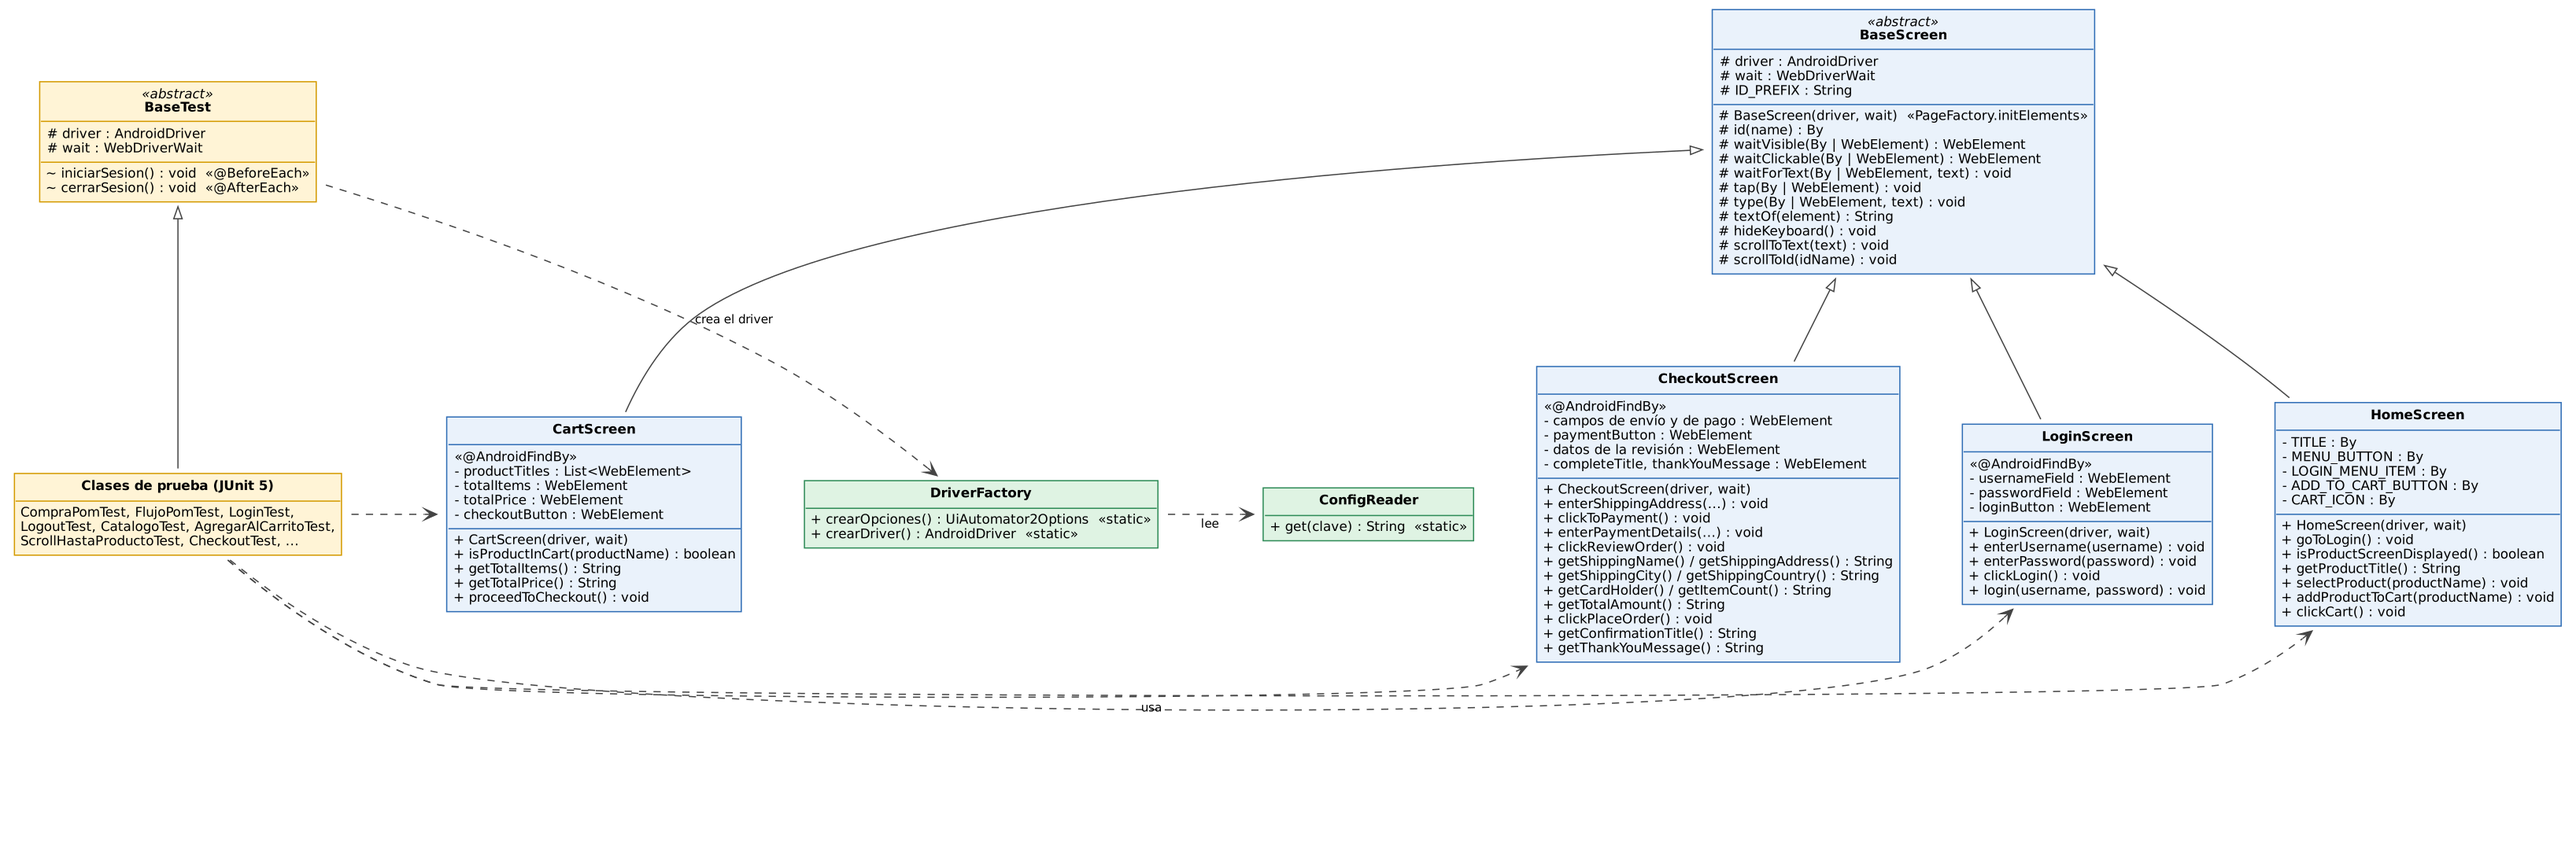
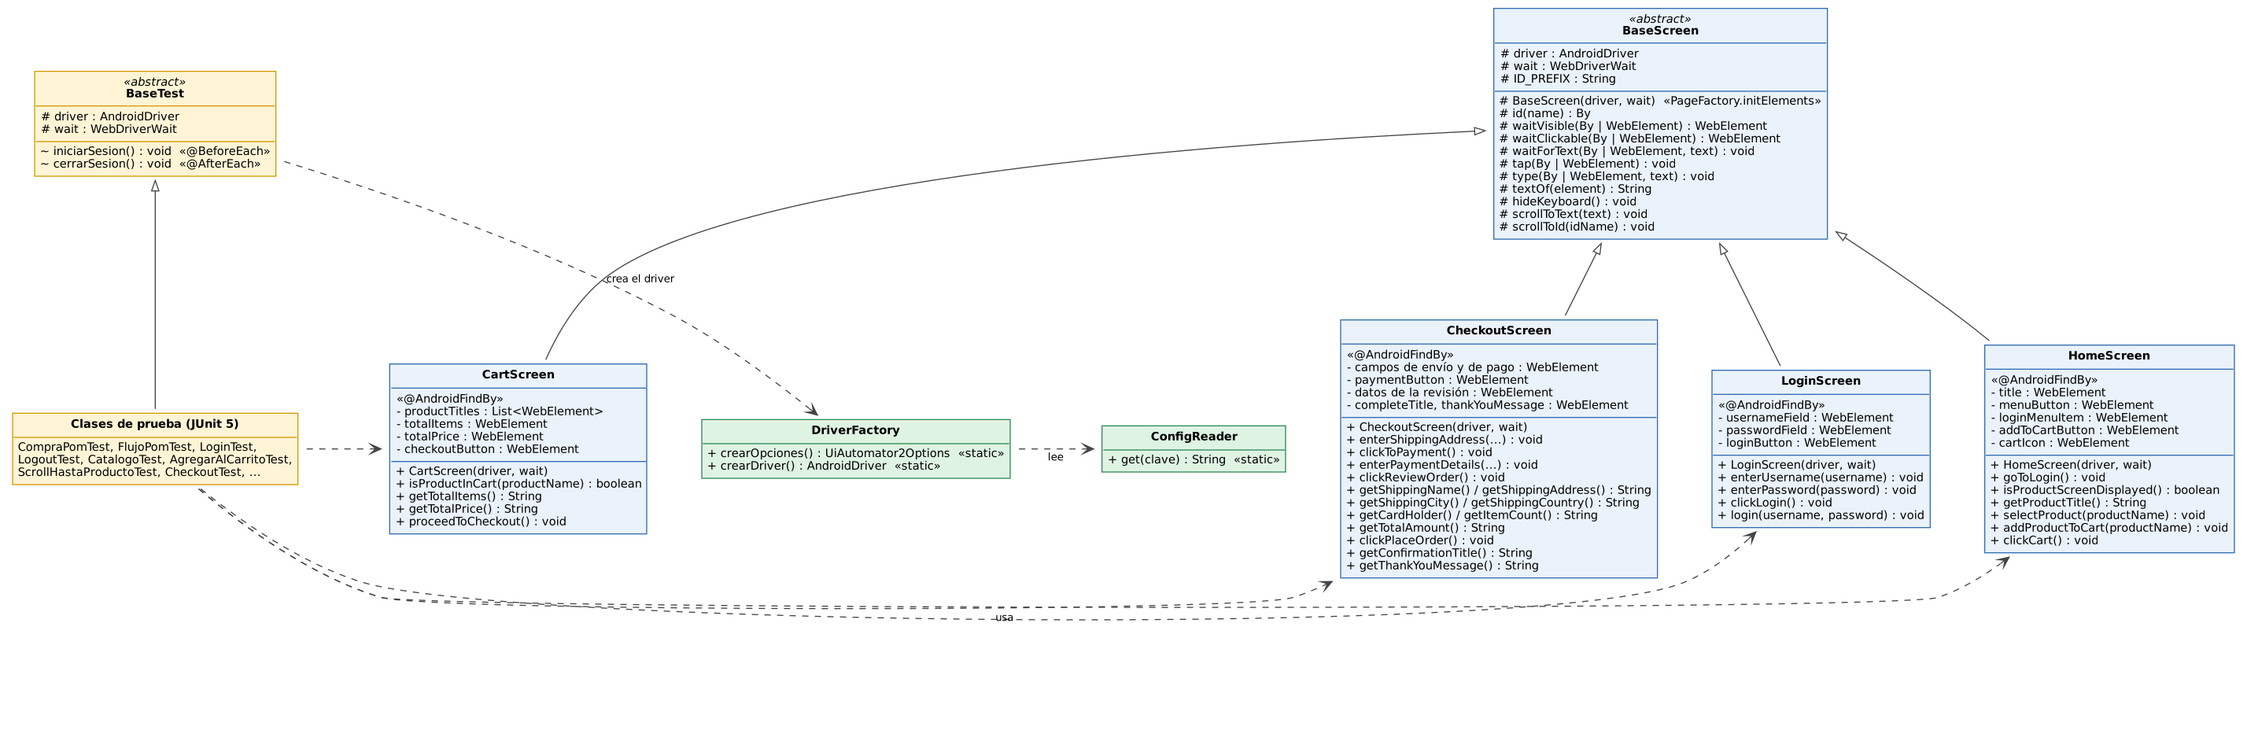
Avance 4.3b: HomeScreen con Page Factory, timeout del decorator y fix de mayúsculas en FlujoPomTest

diff --git a/src/test/java/screens/HomeScreen.java b/src/test/java/screens/HomeScreen.java
@@ -2,22 +2,30 @@ package screens;
 
 import io.appium.java_client.AppiumBy;
 import io.appium.java_client.android.AndroidDriver;
-import org.openqa.selenium.By;
+import io.appium.java_client.pagefactory.AndroidFindBy;
+import org.openqa.selenium.NoSuchElementException;
 import org.openqa.selenium.TimeoutException;
 import org.openqa.selenium.WebElement;
 import org.openqa.selenium.support.ui.WebDriverWait;
-
-import java.util.List;
 
 /** Catálogo de productos (pantalla principal) y detalle del producto. */
 public class HomeScreen extends BaseScreen {
 
     // productTV es el título del catálogo ("Products") y también el nombre en el detalle del producto
-    private static final By TITLE = AppiumBy.id(ID_PREFIX + "productTV");
-    private static final By MENU_BUTTON = AppiumBy.id(ID_PREFIX + "menuIV");
-    private static final By LOGIN_MENU_ITEM = AppiumBy.accessibilityId("Login Menu Item");
-    private static final By ADD_TO_CART_BUTTON = AppiumBy.accessibilityId("Tap to add product to cart");
-    private static final By CART_ICON = AppiumBy.accessibilityId("View cart");
+    @AndroidFindBy(id = ID_PREFIX + "productTV")
+    private WebElement title;
+
+    @AndroidFindBy(id = ID_PREFIX + "menuIV")
+    private WebElement menuButton;
+
+    @AndroidFindBy(accessibility = "Login Menu Item")
+    private WebElement loginMenuItem;
+
+    @AndroidFindBy(accessibility = "Tap to add product to cart")
+    private WebElement addToCartButton;
+
+    @AndroidFindBy(accessibility = "View cart")
+    private WebElement cartIcon;
 
     public HomeScreen(AndroidDriver driver, WebDriverWait wait) {
         super(driver, wait);
@@ -25,14 +33,14 @@ public class HomeScreen extends BaseScreen {
 
     /** Menú lateral -> Log In. */
     public void goToLogin() {
-        tap(MENU_BUTTON);
-        tap(LOGIN_MENU_ITEM);
+        tap(menuButton);
+        tap(loginMenuItem);
     }
 
     /** true si el catálogo se muestra dentro del tiempo de espera. */
     public boolean isProductScreenDisplayed() {
         try {
-            waitForText(TITLE, "Products");
+            waitForText(title, "Products");
             return true;
         } catch (TimeoutException e) {
             return false;
@@ -41,7 +49,7 @@ public class HomeScreen extends BaseScreen {
 
     /** Texto del título: "Products" en el catálogo; el nombre del producto en el detalle. */
     public String getProductTitle() {
-        return waitVisible(TITLE).getText();
+        return waitVisible(title).getText();
     }
 
     /**
@@ -49,12 +57,13 @@ public class HomeScreen extends BaseScreen {
      * porque en las tarjetas del catálogo solo la imagen recibe el click.
      */
     public void selectProduct(String productName) {
-        waitVisible(TITLE); // el catálogo debe estar cargado antes de buscar con scroll
+        waitVisible(title); // el catálogo debe estar cargado antes de buscar con scroll
         scrollToText(productName);
+        // Localizador dinámico: depende del nombre del producto, por eso no se declara con @AndroidFindBy
         tap(AppiumBy.androidUIAutomator(
                 "new UiSelector().text(\"" + productName + "\")"
                         + ".fromParent(new UiSelector().description(\"Product Image\"))"));
-        waitForText(TITLE, productName); // confirma que cambió a la pantalla de detalle
+        waitForText(title, productName); // confirma que cambió a la pantalla de detalle
     }
 
     /** Agrega el producto al carrito. Si todavía no está en su detalle, lo abre primero. */
@@ -62,15 +71,18 @@ public class HomeScreen extends BaseScreen {
         if (!isOnDetailOf(productName)) {
             selectProduct(productName);
         }
-        tap(ADD_TO_CART_BUTTON);
+        tap(addToCartButton);
     }
 
     public void clickCart() {
-        tap(CART_ICON);
+        tap(cartIcon);
     }
 
     private boolean isOnDetailOf(String productName) {
-        List<WebElement> titles = driver.findElements(TITLE);
-        return !titles.isEmpty() && productName.equals(titles.get(0).getText());
+        try {
+            return productName.equals(title.getText());
+        } catch (NoSuchElementException e) {
+            return false;
+        }
     }
 }

diff --git a/src/test/java/screens/BaseScreen.java b/src/test/java/screens/BaseScreen.java
@@ -9,6 +9,8 @@ import org.openqa.selenium.support.PageFactory;
 import org.openqa.selenium.support.ui.ExpectedConditions;
 import org.openqa.selenium.support.ui.WebDriverWait;
 
+import java.time.Duration;
+
 /**
  * Clase base de todos los Screen Objects: guarda el driver, inicializa los elementos declarados con
  * Page Factory (@AndroidFindBy) y reúne las acciones comunes (esperas explícitas, tap, escritura y scroll).
@@ -24,8 +26,8 @@ public abstract class BaseScreen {
         this.driver = driver;
         this.wait = wait;
         // Prepara los campos anotados con @AndroidFindBy de la pantalla que se está creando.
-        // Los elementos se buscan cuando se usan, no al crear la pantalla.
-        PageFactory.initElements(new AppiumFieldDecorator(driver), this);
+        // Los elementos se buscan cuando se usan, no al crear la pantalla; si no aparecen, reintenta hasta 10 s.
+        PageFactory.initElements(new AppiumFieldDecorator(driver, Duration.ofSeconds(10)), this);
     }
 
     /** Atajo para un resource-id de la app: id("productTV"). */

diff --git a/docs/avance-4.3.md b/docs/avance-4.3.md
@@ -12,7 +12,7 @@ Migrar `CartScreen` y `CheckoutScreen` a **Page Factory**, declarando los elemen
 | `LoginScreen` | Migrada a Page Factory (prerrequisito: el checkout sin sesión pasa por el Login). |
 | `CartScreen` | Migrada: títulos del carrito como `List<WebElement>`, total de ítems, precio total y botón de checkout. |
 | `CheckoutScreen` | Nueva, con Page Factory: dirección de envío, pago, revisión del pedido y confirmación. |
-| `HomeScreen` | Se mantiene con `By` (localizadores dinámicos por nombre de producto). Solo se agregó una espera inicial en `selectProduct`. |
+| `HomeScreen` | Migrada a Page Factory en la parte 4.3b (ver más abajo). |
 | `CompraPomTest` | Nueva prueba del flujo de compra completo con Screen Objects. |
 
 ## Inicialización centralizada
@@ -66,7 +66,13 @@ String total = textOf(totalPrice);
 - **Esperas explícitas:** se mantienen. Los proxies de Page Factory son perezosos (buscan el elemento al usarlo) y `WebDriverWait` ignora `NotFoundException`, por lo que `ExpectedConditions.visibilityOf(WebElement)` funciona. No se usa `Thread.sleep`.
 - **Ids compartidos entre pantallas:** `paymentBtn` se usa en tres pasos, así que se espera por el texto del botón antes de tocarlo. `nameET` es el usuario en Login y el titular en Pago; cada pantalla lo declara por separado.
 - **`List<WebElement>` en el carrito:** permite verificar que el producto esté en el carrito sin depender de la posición.
-- **`HomeScreen` con `By`:** sus localizadores dependen del nombre del producto (dinámicos), que Page Factory no resuelve. Puede migrarse en un avance posterior.
+
+## Parte 4.3b: `HomeScreen` y timeout del decorator
+
+- `HomeScreen` pasa a Page Factory: `title`, `menuButton`, `loginMenuItem`, `addToCartButton` y `cartIcon` se declaran con `@AndroidFindBy`. Con esto todas las pantallas del proyecto usan el mismo patrón.
+- El localizador del producto por nombre sigue siendo un `By` dentro de `selectProduct`, porque depende del texto recibido por parámetro y no se puede declarar en una anotación.
+- `BaseScreen` inicializa con `new AppiumFieldDecorator(driver, Duration.ofSeconds(10))`: si un elemento todavía no está, reintenta hasta 10 s antes de fallar (el valor por defecto es de 1 s). Es el mismo enfoque del repositorio de referencia del curso.
+- La API pública de `HomeScreen` no cambia, así que los tests existentes no se tocan.
 
 ## Cómo ejecutar
 
